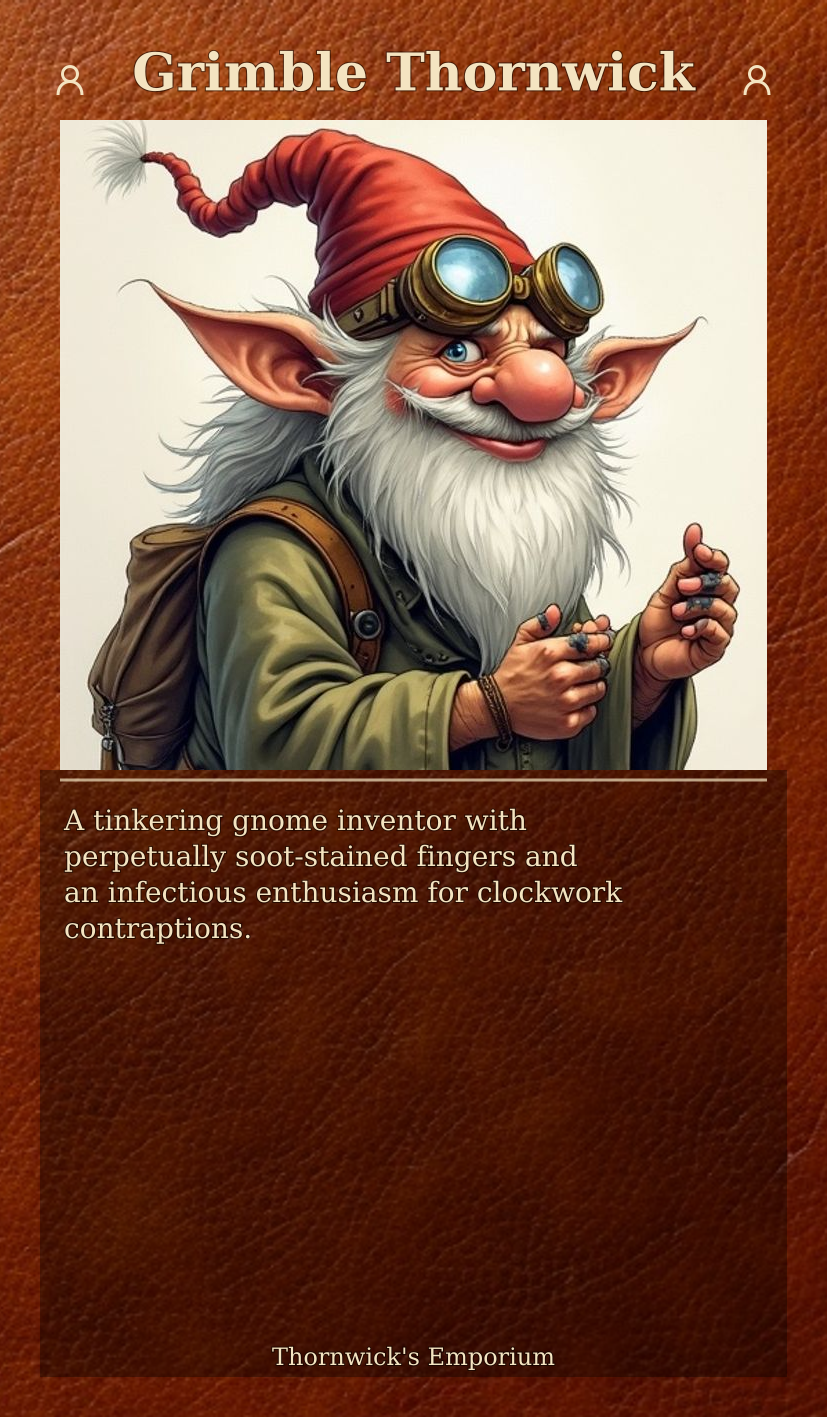
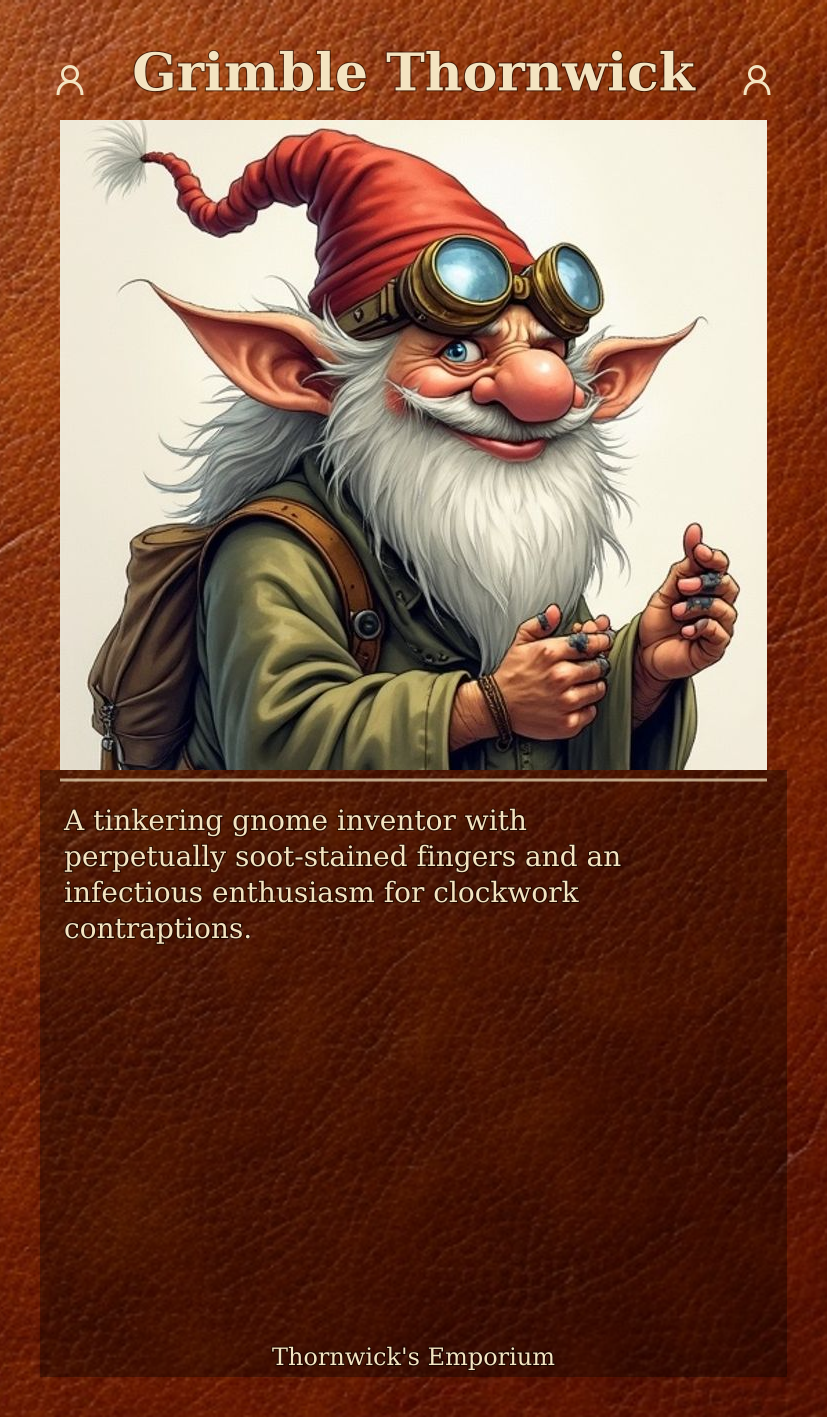
Replace character-count heuristics with actual text measurement
- wrap() now uses measureTextWidth() instead of character count
- bestSplit() uses measured width to find optimal 2-line split
- Footer truncation uses measured width at 24px font size
- Updated VARIANTS.md to show 18-tex-corner-icons as current default
  with proper comparison to alternative settings

Changed region(s): [[0.0605, 0.59, 0.7557, 0.6521]]

diff --git a/packages/card-generator/scripts/generate-all-variants.js b/packages/card-generator/scripts/generate-all-variants.js
@@ -176,7 +176,26 @@ const CARD_SAMPLES = {
 const CARD = CARD_SAMPLES.default;
 
 const esc = s => String(s||'').replace(/&/g,'&amp;').replace(/</g,'&lt;').replace(/>/g,'&gt;');
-const wrap = (t,n) => { const w=t.split(' '),l=[]; let c=''; for(const x of w){if((c+' '+x).trim().length<=n)c=(c+' '+x).trim();else{if(c)l.push(c);c=x;}} if(c)l.push(c); return l; };
+
+// Wrap text to fit within maxWidth pixels at given fontSize
+// Uses actual text measurement instead of character count
+const wrap = (text, maxWidth, fontSize) => {
+  const words = text.split(' ');
+  const lines = [];
+  let currentLine = '';
+
+  for (const word of words) {
+    const testLine = currentLine ? currentLine + ' ' + word : word;
+    if (measureTextWidth(testLine, fontSize) <= maxWidth) {
+      currentLine = testLine;
+    } else {
+      if (currentLine) lines.push(currentLine);
+      currentLine = word;
+    }
+  }
+  if (currentLine) lines.push(currentLine);
+  return lines;
+};
 
 // Render card with optional texture background
 // Layers (bottom to top): texture/gradient → portrait → SVG overlay
@@ -219,16 +238,16 @@ function textureOverlaySvg(opts = {}) {
   const cardData = opts.cardData || CARD;
   const iconSvg = opts.iconSvg || ICON_SVG;
 
-  // Find best 2-line split (minimize the longer line's length)
-  const bestSplit = (name) => {
+  // Find best 2-line split (minimize the wider line's measured width)
+  const bestSplit = (name, fontSize = 34) => {
     const words = name.split(' ');
     if (words.length < 2) return null;
-    let best = null, bestMax = Infinity;
+    let best = null, bestMaxW = Infinity;
     for (let i = 1; i < words.length; i++) {
       const line1 = words.slice(0, i).join(' ');
       const line2 = words.slice(i).join(' ');
-      const maxLen = Math.max(line1.length, line2.length);
-      if (maxLen < bestMax) { bestMax = maxLen; best = [line1, line2]; }
+      const maxW = Math.max(measureTextWidth(line1, fontSize), measureTextWidth(line2, fontSize));
+      if (maxW < bestMaxW) { bestMaxW = maxW; best = [line1, line2]; }
     }
     return best;
   };
@@ -286,11 +305,18 @@ function textureOverlaySvg(opts = {}) {
     }
   }
 
-  // Truncate footer if too long (max ~40 chars for single line)
-  const maxFooterLen = 40;
-  const displayFooter = cardData.footer.length > maxFooterLen
-    ? cardData.footer.slice(0, maxFooterLen - 1) + '…'
-    : cardData.footer;
+  // Truncate footer if too wide (must fit in content area)
+  const FOOTER_FONT_SIZE = 24;
+  const FOOTER_MAX_W = CONTENT_W - 2 * 20; // content width minus padding
+  let displayFooter = cardData.footer;
+  if (measureTextWidth(displayFooter, FOOTER_FONT_SIZE) > FOOTER_MAX_W) {
+    // Truncate until it fits
+    let truncated = displayFooter;
+    while (measureTextWidth(truncated + '…', FOOTER_FONT_SIZE) > FOOTER_MAX_W && truncated.length > 1) {
+      truncated = truncated.slice(0, -1);
+    }
+    displayFooter = truncated + '…';
+  }
 
   // Text area styling
   const textTint = opts.textTint || 'dark';  // 'none', 'dark', 'leather'
@@ -325,7 +351,10 @@ function textureOverlaySvg(opts = {}) {
     <line x1="${CONTENT_LEFT + 20}" y1="${dividerY}" x2="${CONTENT_RIGHT - 20}" y2="${dividerY}" stroke="${textColor}" stroke-width="3" opacity="0.7"/>
   ` : '';
 
-  const lines = wrap(esc(cardData.desc), charsPerLine);
+  // Text wrapping with actual measurement (ignore charsPerLine, use actual width)
+  const textAreaPadding = 24;
+  const textMaxWidth = CONTENT_W - textAreaPadding * 2;
+  const lines = wrap(esc(cardData.desc), textMaxWidth, bodySize);
   const lineHeight = 36;
   const textStartY = TEXT_TOP + 44 + (divider ? 16 : 0);
 
@@ -494,7 +523,9 @@ function baseFullFrame(opts = {}) {
     <line x1="${B + 20}" y1="${textAreaTop + 10}" x2="${W - B - 20}" y2="${textAreaTop + 10}" stroke="#f4e4c1" stroke-width="3" opacity="0.7"/>
   ` : '';
 
-  const lines = wrap(esc(CARD.desc), charsPerLine);
+  // Text wrapping with actual measurement
+  const textMaxW = W - B * 2 - 48; // content width minus padding
+  const lines = wrap(esc(CARD.desc), textMaxW, bodySize);
   const lineHeight = 32;
   const textStartY = textAreaTop + 40 + (divider ? 16 : 0);
 
@@ -544,7 +575,7 @@ const variants = [
         <g transform="translate(${W - b - 48}, ${b + 32})">${ICON_SVG}</g>
         <text x="${W/2}" y="${b + 68}" font-family="serif" font-size="52" font-weight="bold" fill="#f4e4c1" text-anchor="middle">${esc(CARD.name)}</text>
         <rect x="${b}" y="${b + headerH + portraitH}" width="${W-b*2}" height="${H - b*2 - headerH - portraitH - 36}" fill="#f4e4c1"/>
-        ${wrap(esc(CARD.desc), 44).map((l, i) => `<text x="${b + 24}" y="${b + headerH + portraitH + 40 + i * 32}" font-family="serif" font-size="24" fill="#2a2016">${l}</text>`).join('')}
+        ${wrap(esc(CARD.desc), W - b*2 - 48, 24).map((l, i) => `<text x="${b + 24}" y="${b + headerH + portraitH + 40 + i * 32}" font-family="serif" font-size="24" fill="#2a2016">${l}</text>`).join('')}
         <rect x="${b}" y="${H - b - 36}" width="${W-b*2}" height="36" fill="#e8d4a8"/>
         <text x="${W/2}" y="${H - b - 10}" font-family="serif" font-size="20" fill="#5a4a36" text-anchor="middle">${esc(CARD.footer)}</text>
       </svg>`;
@@ -624,7 +655,7 @@ const variants = [
         <g transform="translate(24, 27)">${ICON_SVG}</g>
         <g transform="translate(${W - 60}, 27)">${ICON_SVG}</g>
         <text x="${W/2}" y="62" font-family="serif" font-size="52" font-weight="bold" fill="#f4e4c1" text-anchor="middle">${esc(CARD.name)}</text>
-        ${wrap(esc(CARD.desc), 46).map((l, i) => `<text x="40" y="${961 + i * 36}" font-family="serif" font-size="28" fill="#2a2016">${l}</text>`).join('')}
+        ${wrap(esc(CARD.desc), W - 80, 28).map((l, i) => `<text x="40" y="${961 + i * 36}" font-family="serif" font-size="28" fill="#2a2016">${l}</text>`).join('')}
         <rect y="${H - 40}" height="40" width="${W}" fill="#e8d4a8"/>
         <text x="${W/2}" y="${H - 13}" font-family="serif" font-size="22" fill="#5a4a36" text-anchor="middle">${esc(CARD.footer)}</text>
       </svg>`;
@@ -872,87 +903,51 @@ async function main() {
   // Generate markdown
   let md = `# Layout Variant Comparison
 
-**Texture cards**: AI-generated leather background, no tint, rounded portrait, icons in corners.
+## Current Default
 
-Legacy: Gradient background with solid color text area.
+**Settings**: Texture background, no tint, rounded portrait, icons in footer corners.
 
----
-
-## New Default
-
-| Solid color (NEW DEFAULT) |
+| CURRENT DEFAULT (18-tex-corner-icons) |
 |:---:|
-| <img src="00-default.png" width="300"/> |
+| <img src="18-tex-corner-icons.png" width="350"/> |
 
 ---
 
-## Text Box Background
-
-| Solid (default) | Parchment (old) |
-|:---:|:---:|
-| <img src="00-default.png" width="250"/> | <img src="02-parchment-textbox.png" width="250"/> |
-
----
-
-## Header Icons
-
-| With icons (default) | No icons |
-|:---:|:---:|
-| <img src="00-default.png" width="250"/> | <img src="03-no-icons.png" width="250"/> |
-
----
-
-## Decorative Elements
-
-| With divider (default) | Without divider |
-|:---:|:---:|
-| <img src="00-default.png" width="250"/> | <img src="04-no-divider.png" width="250"/> |
-
----
-
-## Typography
-
-**Serif (default)**
-<img src="00-default.png" width="300"/>
-
-**Sans-serif**
-<img src="05-sans-serif.png" width="300"/>
-
-**Centered**
-<img src="06-centered-text.png" width="300"/>
-
-**Italic**
-<img src="07-italic-desc.png" width="300"/>
-
----
-
-## Texture Background Variants
-
-Generate texture: \`node scripts/generate-texture.js texture.png --category=npc --api\`
+## Alternative Settings
 
 ### Text Area Tinting
 
-| Dark tint | Leather tint | No tint (preferred) |
+| No tint (CURRENT) | Dark tint | Leather tint |
 |:---:|:---:|:---:|
-| <img src="09-tex-dark-tint.png" width="200"/> | <img src="10-tex-leather-tint.png" width="200"/> | <img src="11-tex-no-tint.png" width="200"/> |
+| <img src="18-tex-corner-icons.png" width="200"/> | <img src="09-tex-dark-tint.png" width="200"/> | <img src="10-tex-leather-tint.png" width="200"/> |
 
-### Text Area Borders
+### Footer Decoration
 
-| Line border | Decorative corners |
-|:---:|:---:|
-| <img src="12-tex-line-border.png" width="250"/> | <img src="13-tex-decorative-border.png" width="250"/> |
+| Icons (CURRENT) | Decorative corners | None |
+|:---:|:---:|:---:|
+| <img src="18-tex-corner-icons.png" width="200"/> | <img src="17-tex-decorative-corners.png" width="200"/> | <img src="11-tex-no-tint.png" width="200"/> |
 
 ### Portrait Styling
 
-| Rounded corners | Border line | Rounded + border |
+| Rounded (CURRENT) | Square | Rounded + border |
 |:---:|:---:|:---:|
-| <img src="14-tex-rounded-portrait.png" width="200"/> | <img src="15-tex-portrait-border.png" width="200"/> | <img src="16-tex-rounded-with-border.png" width="200"/> |
+| <img src="18-tex-corner-icons.png" width="200"/> | <img src="11-tex-no-tint.png" width="200"/> | <img src="16-tex-rounded-with-border.png" width="200"/> |
 
-### Text Area Decoration
+### Text Area Borders
 
-| Decorative corners | Icons in corners |
-|:---:|:---:|
-| <img src="17-tex-decorative-corners.png" width="250"/> | <img src="18-tex-corner-icons.png" width="250"/> |
+| None (CURRENT) | Line border | Decorative corners |
+|:---:|:---:|:---:|
+| <img src="18-tex-corner-icons.png" width="200"/> | <img src="12-tex-line-border.png" width="200"/> | <img src="13-tex-decorative-border.png" width="200"/> |
+
+---
+
+## Legacy Variants (Gradient Background)
+
+These use a solid color gradient instead of texture background.
+
+| Gradient default | Parchment text box | No icons |
+|:---:|:---:|:---:|
+| <img src="00-default.png" width="200"/> | <img src="02-parchment-textbox.png" width="200"/> | <img src="03-no-icons.png" width="200"/> |
 
 ---
 

diff --git a/campaigns/example/cards/exploration/VARIANTS.md b/campaigns/example/cards/exploration/VARIANTS.md
@@ -1,86 +1,50 @@
 # Layout Variant Comparison
 
-**Texture cards**: AI-generated leather background, no tint, rounded portrait, icons in corners.
+## Current Default
 
-Legacy: Gradient background with solid color text area.
+**Settings**: Texture background, no tint, rounded portrait, icons in footer corners.
 
----
-
-## New Default
-
-| Solid color (NEW DEFAULT) |
+| CURRENT DEFAULT (18-tex-corner-icons) |
 |:---:|
-| <img src="00-default.png" width="300"/> |
+| <img src="18-tex-corner-icons.png" width="350"/> |
 
 ---
 
-## Text Box Background
-
-| Solid (default) | Parchment (old) |
-|:---:|:---:|
-| <img src="00-default.png" width="250"/> | <img src="02-parchment-textbox.png" width="250"/> |
-
----
-
-## Header Icons
-
-| With icons (default) | No icons |
-|:---:|:---:|
-| <img src="00-default.png" width="250"/> | <img src="03-no-icons.png" width="250"/> |
-
----
-
-## Decorative Elements
-
-| With divider (default) | Without divider |
-|:---:|:---:|
-| <img src="00-default.png" width="250"/> | <img src="04-no-divider.png" width="250"/> |
-
----
-
-## Typography
-
-**Serif (default)**
-<img src="00-default.png" width="300"/>
-
-**Sans-serif**
-<img src="05-sans-serif.png" width="300"/>
-
-**Centered**
-<img src="06-centered-text.png" width="300"/>
-
-**Italic**
-<img src="07-italic-desc.png" width="300"/>
-
----
-
-## Texture Background Variants
-
-Generate texture: `node scripts/generate-texture.js texture.png --category=npc --api`
+## Alternative Settings
 
 ### Text Area Tinting
 
-| Dark tint | Leather tint | No tint (preferred) |
+| No tint (CURRENT) | Dark tint | Leather tint |
 |:---:|:---:|:---:|
-| <img src="09-tex-dark-tint.png" width="200"/> | <img src="10-tex-leather-tint.png" width="200"/> | <img src="11-tex-no-tint.png" width="200"/> |
+| <img src="18-tex-corner-icons.png" width="200"/> | <img src="09-tex-dark-tint.png" width="200"/> | <img src="10-tex-leather-tint.png" width="200"/> |
 
-### Text Area Borders
+### Footer Decoration
 
-| Line border | Decorative corners |
-|:---:|:---:|
-| <img src="12-tex-line-border.png" width="250"/> | <img src="13-tex-decorative-border.png" width="250"/> |
+| Icons (CURRENT) | Decorative corners | None |
+|:---:|:---:|:---:|
+| <img src="18-tex-corner-icons.png" width="200"/> | <img src="17-tex-decorative-corners.png" width="200"/> | <img src="11-tex-no-tint.png" width="200"/> |
 
 ### Portrait Styling
 
-| Rounded corners | Border line | Rounded + border |
+| Rounded (CURRENT) | Square | Rounded + border |
 |:---:|:---:|:---:|
-| <img src="14-tex-rounded-portrait.png" width="200"/> | <img src="15-tex-portrait-border.png" width="200"/> | <img src="16-tex-rounded-with-border.png" width="200"/> |
+| <img src="18-tex-corner-icons.png" width="200"/> | <img src="11-tex-no-tint.png" width="200"/> | <img src="16-tex-rounded-with-border.png" width="200"/> |
 
-### Text Area Decoration
+### Text Area Borders
 
-| Decorative corners | Icons in corners |
-|:---:|:---:|
-| <img src="17-tex-decorative-corners.png" width="250"/> | <img src="18-tex-corner-icons.png" width="250"/> |
+| None (CURRENT) | Line border | Decorative corners |
+|:---:|:---:|:---:|
+| <img src="18-tex-corner-icons.png" width="200"/> | <img src="12-tex-line-border.png" width="200"/> | <img src="13-tex-decorative-border.png" width="200"/> |
+
+---
+
+## Legacy Variants (Gradient Background)
+
+These use a solid color gradient instead of texture background.
+
+| Gradient default | Parchment text box | No icons |
+|:---:|:---:|:---:|
+| <img src="00-default.png" width="200"/> | <img src="02-parchment-textbox.png" width="200"/> | <img src="03-no-icons.png" width="200"/> |
 
 ---
 
